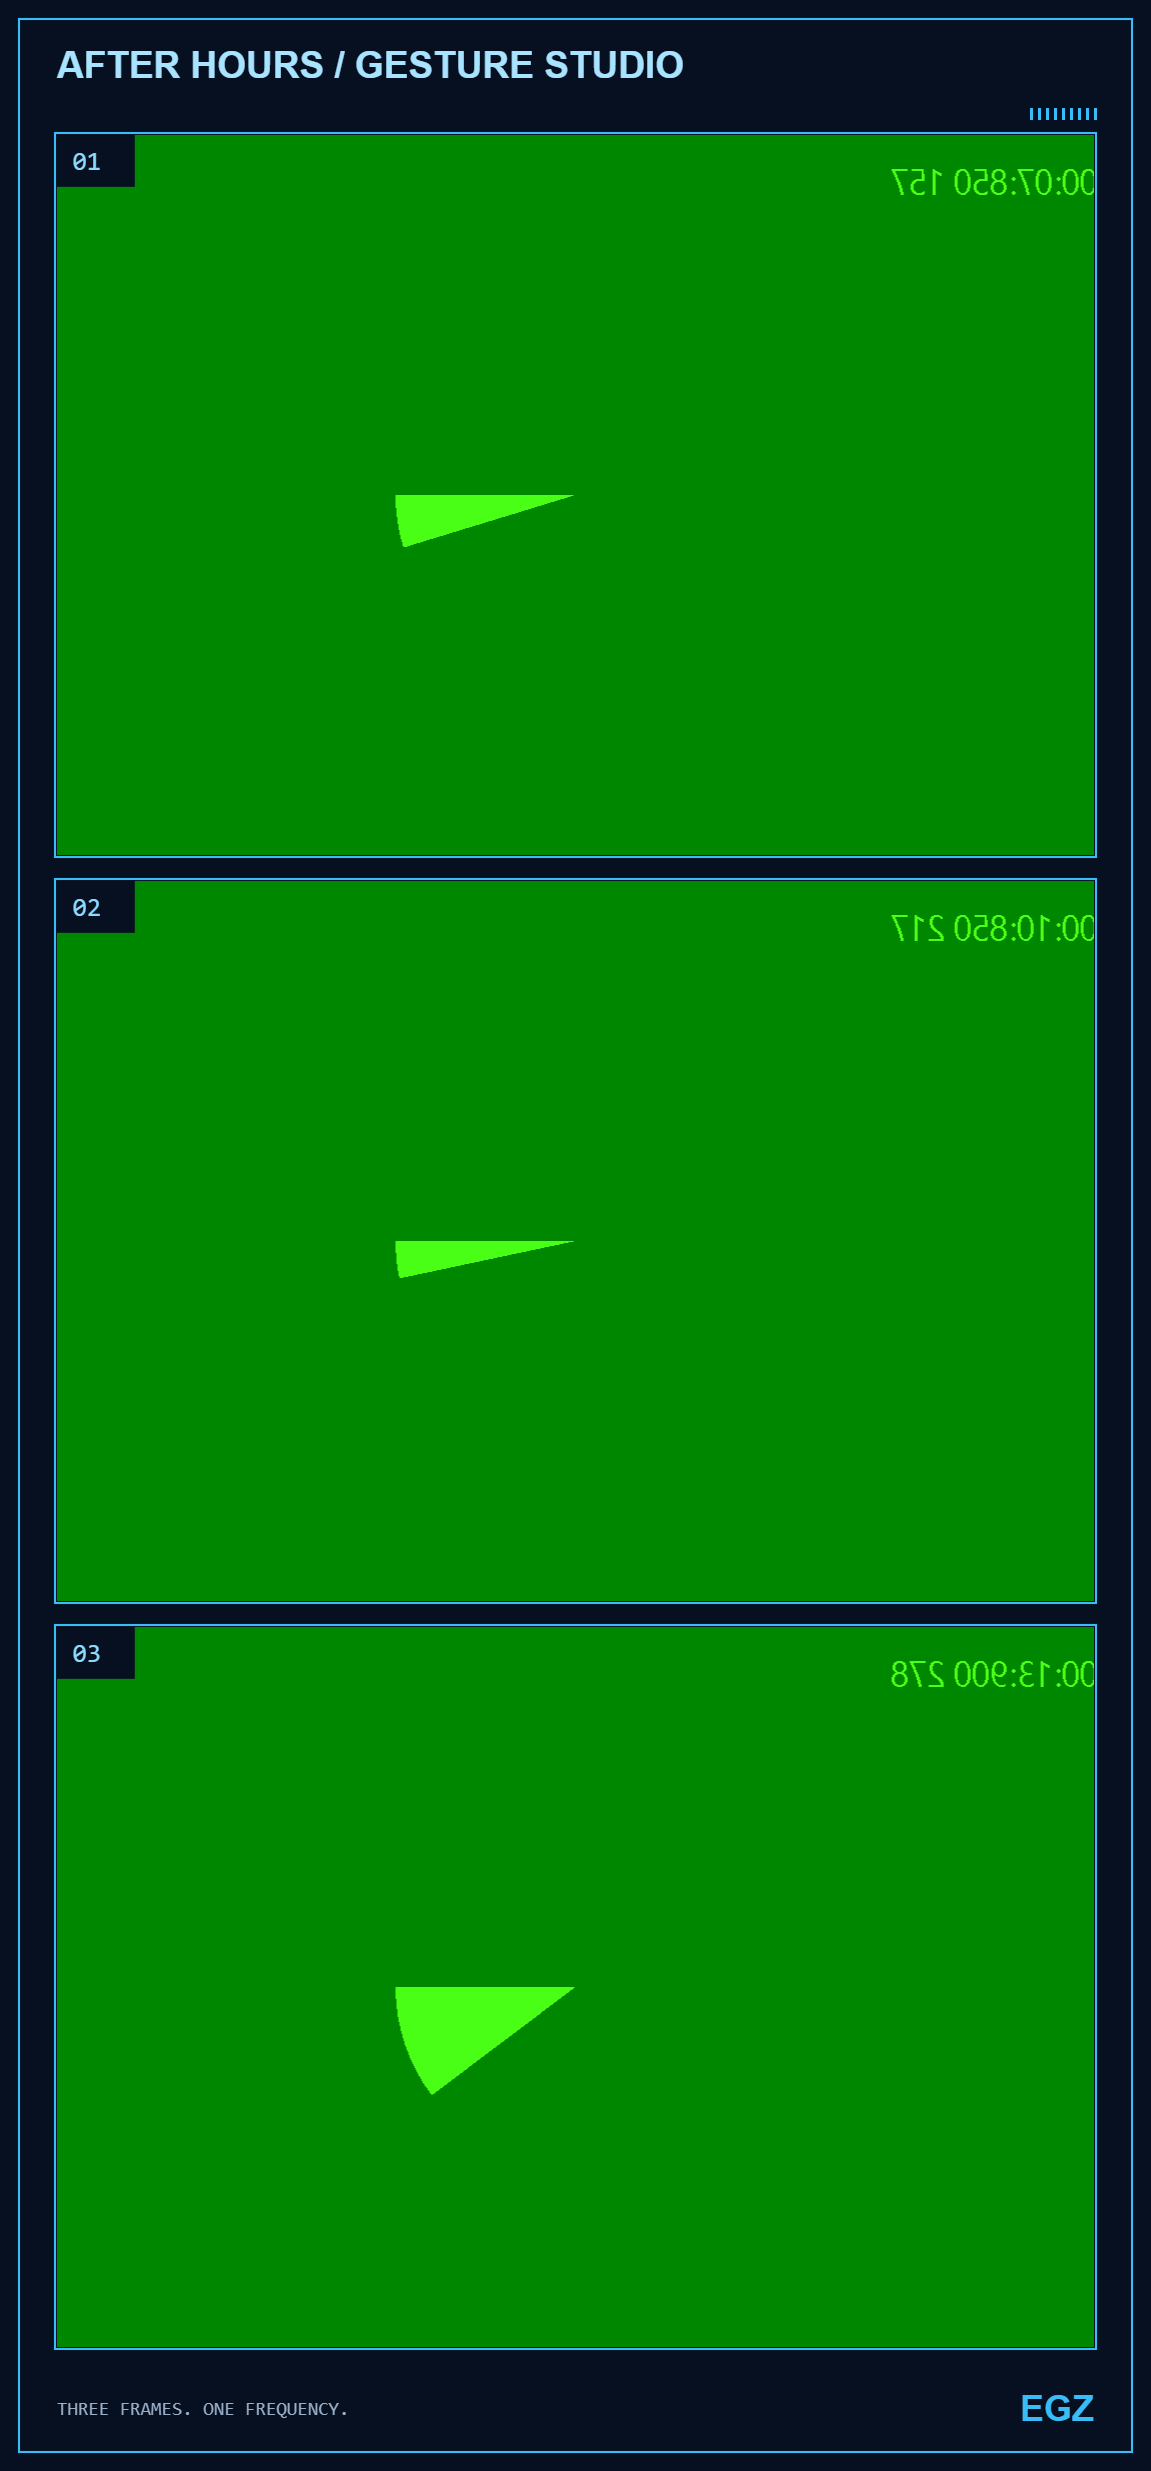
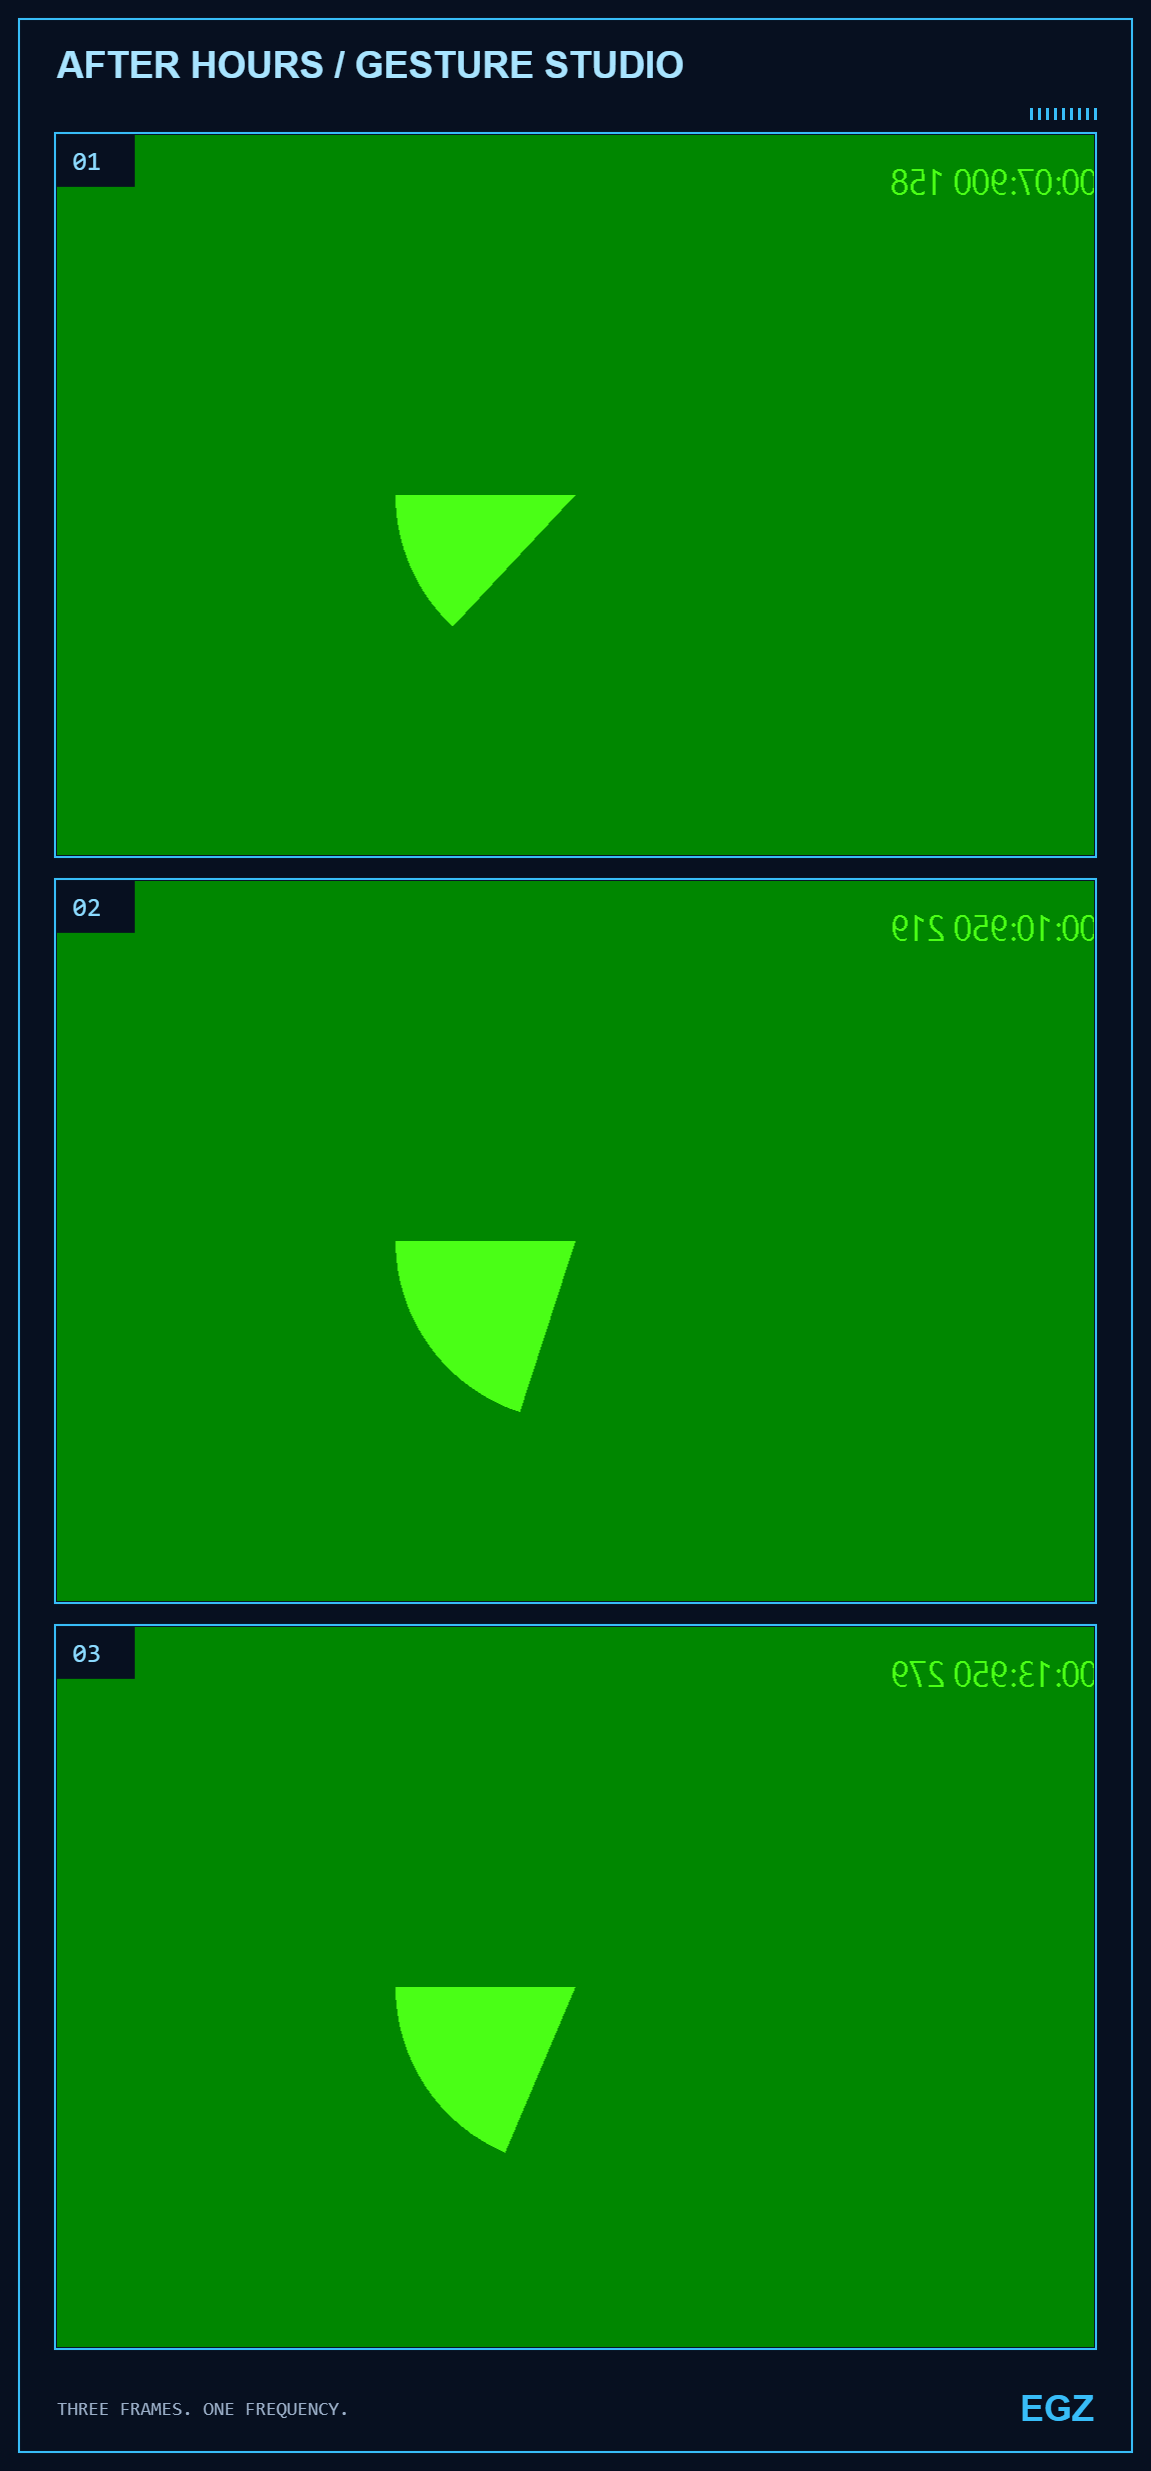
...

diff --git a/web/styles.css b/web/styles.css
@@ -15,6 +15,7 @@ main{height:100dvh;width:100%;padding:0}
 .menu-screen>p{font-size:13px;color:var(--muted);margin-bottom:24px}
 #booth-tools .note{border:0;padding:0;margin:0}.meme-guide>div:last-child,.gesture-list>div:last-child{border-bottom:0}
 .feedback:empty{display:none}body[data-phase=setup] #mode-nav{visibility:hidden}body:not([data-phase=studio]) .tool-panel,body[data-phase=setup] #gallery-toggle:disabled,#stop-camera:disabled{display:none}
+body:has(#empty-state:not([hidden])) .tool-panel,body:has(#empty-state:not([hidden])) #toggle-tools{display:none}
 body:not([data-phase=setup]) #manual-access{display:none}.actions .text-button{margin:0;padding:8px 12px}
 @media(max-width:1100px){.badge{font-size:0;margin-right:4px}.badge:before{height:7px;width:7px}nav .mode{padding:10px 12px}.topbar{gap:10px}}
 @media(max-width:760px){
@@ -30,7 +31,8 @@ body:not([data-phase=setup]) #manual-access{display:none}.actions .text-button{m
  .shape-tools button,.tool-row button,#undo-paint{font-size:11px}.gesture-list dt span{font-size:12px}.gesture-list dd{font-size:11px}
  #color-picker{right:0;top:0;width:228px;padding:16px}#color-field{height:155px}
  .bottom-bar{bottom:12px;left:12px;right:12px}.actions button{font-size:11px;padding:9px 12px}.actions kbd{display:none}
- .stage-status{bottom:84px;left:16px;font-size:10px}.feedback{bottom:150px;font-size:11px;max-width:calc(100vw - 32px)}
+ .stage-status{bottom:84px;left:16px;font-size:10px;max-width:calc(100vw - 268px)}.feedback{bottom:150px;font-size:11px;max-width:calc(100vw - 32px)}
+ body[data-phase=studio]:has(#empty-state[hidden]) .feedback{top:140px;bottom:auto;left:16px;transform:none;max-width:calc(100vw - 268px);text-align:left}
  .countdown{font-size:130px}.shot-feedback{top:140px;font-size:11px}
  .saved-section{padding:16px;gap:10px!important}.saved-heading h2{font-size:20px}.photo-actions{gap:6px}.photo-actions button,.photo-actions a{font-size:11px;padding:9px 10px}.gallery-note{font-size:10px}
 }

diff --git a/web/app.js b/web/app.js
@@ -436,7 +436,7 @@ async function savePhoto(canvas, kind = mode) {
     actions.append(download, print, remove, confirmDelete, keep); card.append(image, title, warning, actions);
     $('saved-photos').prepend(card); galleryIndex = 0; showGalleryPhoto();
     pendingSave = null;
-    feedback('Foto siap. Pilih Hasil di atas untuk melihat, mengunduh, atau mencetak.');
+    feedback('Foto siap di Hasil.');
   } catch {
     feedback('Foto gagal diproses. Gambar tetap disimpan sementara; pilih Coba simpan foto.', true);
   } finally {
